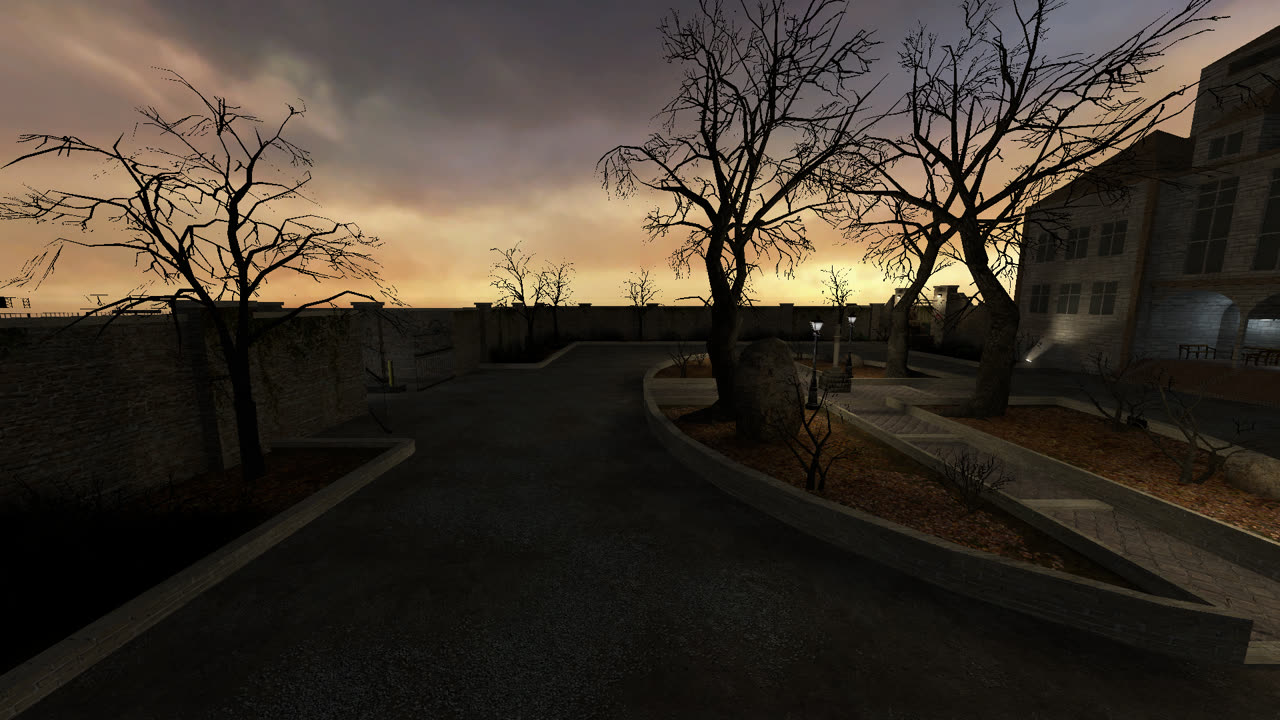
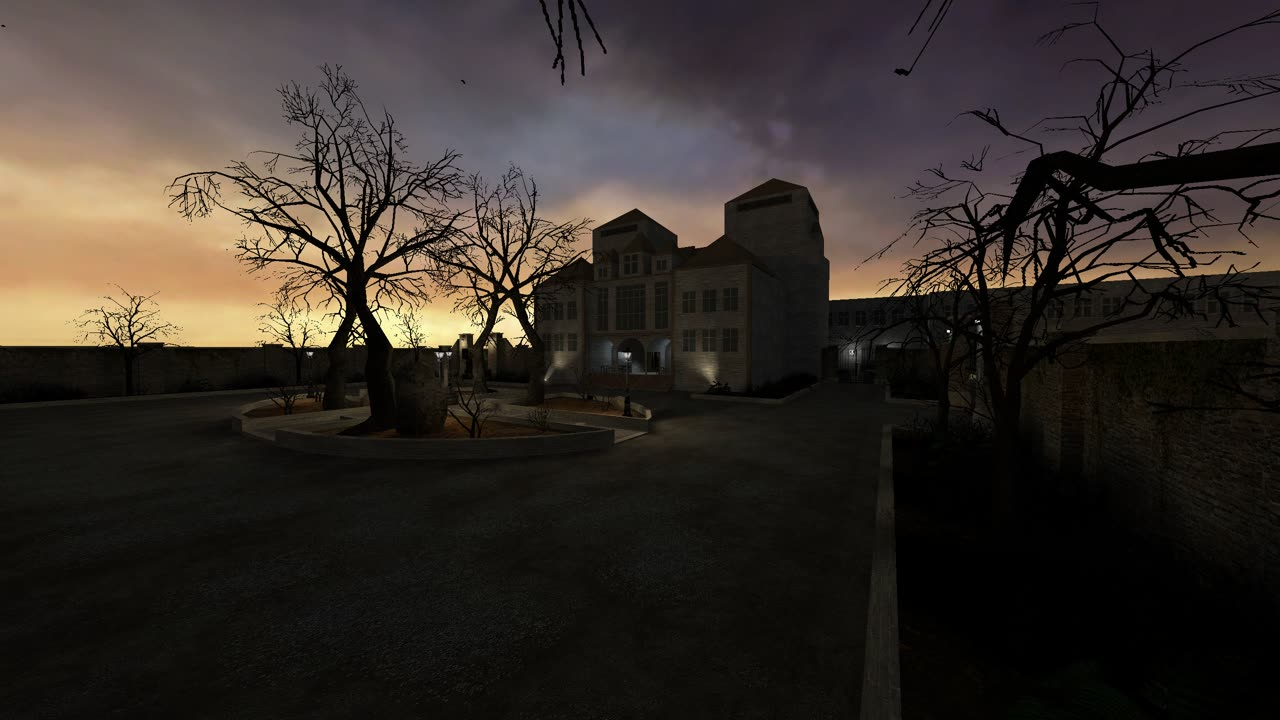
Owner's own photos for the other 13 maps

diff --git a/index.html b/index.html
@@ -238,7 +238,7 @@ body.demo #vs { display: flex; }
 	// Map pictures (maps/<file>); anything else gets the striped placeholder. MAP_ALIAS: a map that should show another one's photo.
 	// Photos taken in the lab (nGc.BR tools/maps/scenic.sh), one picked per map, 1280x720.
 	var MAP_PICS = {};
-	// venice, sunlight, icecap and shroomforest2: the owner's own shots (2026-10-14); the rest from the lab until he retakes them
+	// every photo taken by the owner in the game (2026-10-14), 1280x720
 	["ze_dark_souls", "ze_death_star_escape_v4_3", "ze_fapescape_rote_v1_3f", "ze_ffvii_mako_reactor_v5_3", "ze_isla_nublar_v2_1",
 		"ze_jurassicpark_v2", "ze_lotr_minas_tirith_v3_3", "ze_lotr_mount_doom_ngc", "ze_minecraft_v1_1", "ze_mirrors_edge_reborn_v4_2",
 		"ze_outlast_v1", "ze_pirates_port_royal_v5_4s2", "ze_predator_ultimate_v3",
